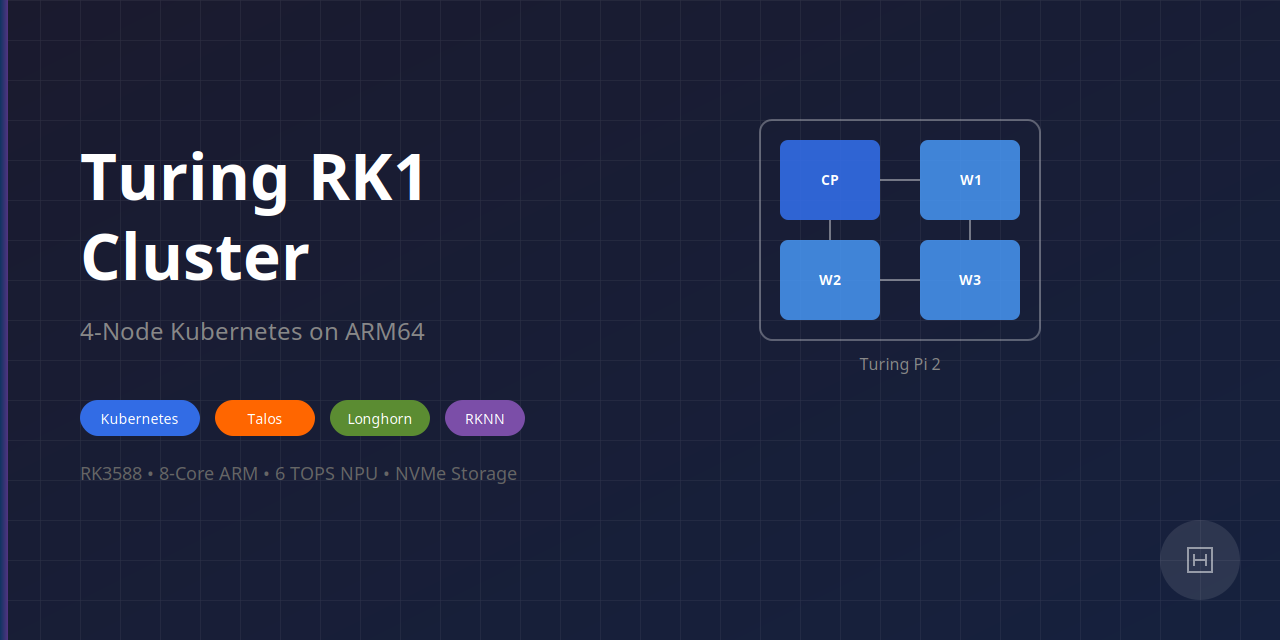
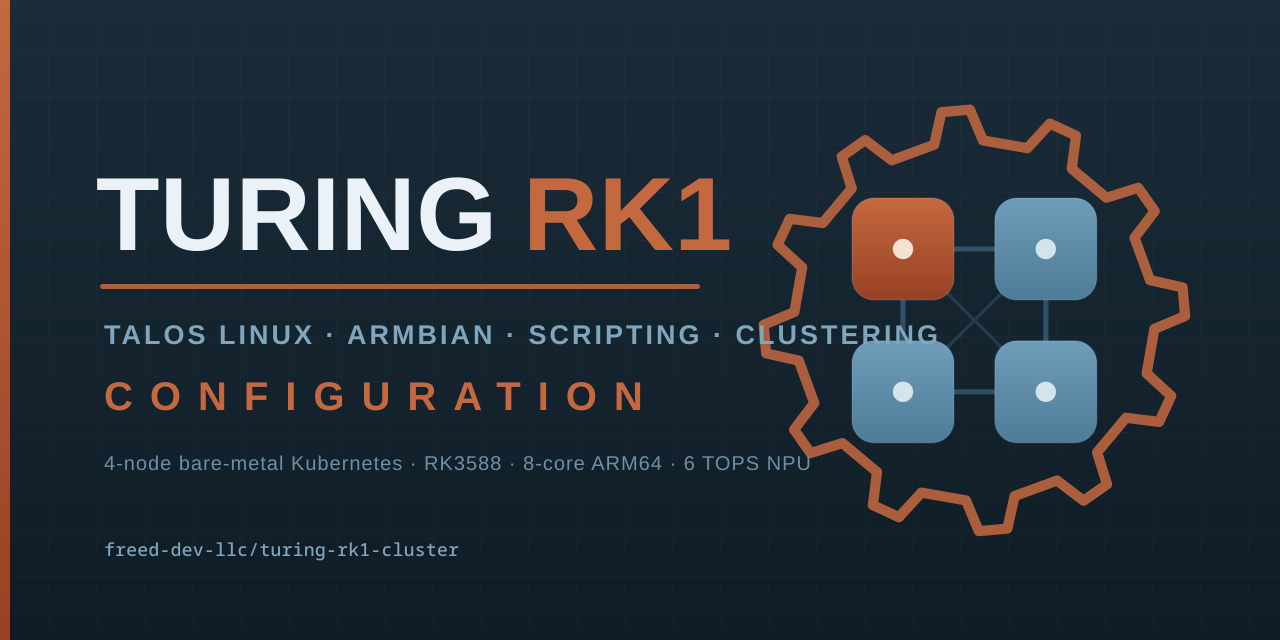
docs(brand): adopt freed-dev-llc Turing Pi branding (Configuration theme)
Bring this repo into the shared freed-dev-llc Turing Pi branding system,
themed for Configuration (parallels Provider/Modules/Ansible siblings).

- Banner logo: 2x2 cluster glyph encircled by a terracotta configuration
  gear (the per-repo motif slot; siblings use angle/curly/square brackets).
  Wordmark TURING RK1 / rule / TALOS LINUX . ARMBIAN . SCRIPTING .
  CLUSTERING / letter-spaced CONFIGURATION.
- Square icon (favicon-ready) reusing the gear-cluster glyph.
- Cross-repo button for this repo (btn_turing_rk1_cluster.svg) plus local
  copies of the sibling buttons (ansible/provider/modules).
- README: banner at top + "Related Turing Pi projects" button row.
- Rebrand .github/social-preview.svg/.png to the new palette (replaces the
  old purple design).

diff --git a/README.md b/README.md
@@ -1,5 +1,7 @@
 # Turing RK1 Kubernetes Cluster
 
+![Turing RK1 Cluster — Configuration](docs/assets/turing-cluster/logos/turing_cluster_logo_config_horizontal.svg)
+
 [![GitHub Release](https://img.shields.io/github/v/release/freed-dev-llc/turing-rk1-cluster)](https://github.com/freed-dev-llc/turing-rk1-cluster/releases)
 [![Lint](https://github.com/freed-dev-llc/turing-rk1-cluster/actions/workflows/lint.yml/badge.svg)](https://github.com/freed-dev-llc/turing-rk1-cluster/actions/workflows/lint.yml)
 [![CodeQL](https://github.com/freed-dev-llc/turing-rk1-cluster/actions/workflows/codeql.yml/badge.svg)](https://github.com/freed-dev-llc/turing-rk1-cluster/actions/workflows/codeql.yml)
@@ -7,6 +9,12 @@
 [![Talos](https://img.shields.io/badge/Talos-v1.13.2-blue)](https://www.talos.dev/)
 [![K3s](https://img.shields.io/badge/K3s-v1.31-FFC61C)](https://k3s.io/)
 [![Kubernetes](https://img.shields.io/badge/Kubernetes-v1.35.0-326CE5?logo=kubernetes&logoColor=white)](https://kubernetes.io/)
+
+**Related Turing Pi projects:**
+
+[![Turing RK1 Ansible — freed-dev-llc/turing-ansible-cluster](docs/assets/buttons/btn_turing_ansible_cluster.svg)](https://github.com/freed-dev-llc/turing-ansible-cluster)
+[![Turing Pi Provider — freed-dev-llc/terraform-provider-turingpi](docs/assets/buttons/btn_terraform_provider_turingpi.svg)](https://github.com/freed-dev-llc/terraform-provider-turingpi)
+[![Turing Pi Modules — freed-dev-llc/terraform-turingpi-modules](docs/assets/buttons/btn_terraform_turingpi_modules.svg)](https://github.com/freed-dev-llc/terraform-turingpi-modules)
 
 A 4-node bare-metal Kubernetes cluster built on Turing RK1 compute modules, supporting both **Talos Linux** and **K3s on Armbian** distributions. Designed for edge computing, AI/ML workloads with NPU acceleration, and distributed storage.
 